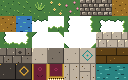
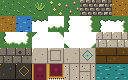
Art: quieter Guildhall and Vault floors (REF-122, REF-154 second drawings)
The owner agreed both floors were too loud. REF-122: the solid
stone-grey square becomes a pale slab with an inlaid grey line frame,
so the chequer stays but no longer drowns the props. REF-154: the ring
is a single thin brass line and is laid on one slab in twelve, not one
in six. REF-76 atlas copy, game atlas, docs and the ring-rate test
updated to match.

Claude-Session: https://claude.ai/code/session_0148hHFc6RMn2Uz6tAh8NkZT

Changed region(s): [[0.375, 0.6, 0.5, 0.8], [0.1562, 0.825, 0.2188, 0.95]]

diff --git a/design/art/refs/ref-122-hallfloor.jsx b/design/art/refs/ref-122-hallfloor.jsx
@@ -2,14 +2,17 @@
 // REF-122 - Guildhall floor, 16x16 tiles, 2-column sheet.
 // APPROVED by Matt 2026-11-18. Wired as game/assets/sprites/tiles_village_v3.png (via the REF-76 combined atlas, indices 26-27).
 //
-// Ground for the Guildhall Quarter (Act 3): a chequered civic floor, one
-// aged-paper square and one stone-grey square, each a whole tile with a
-// one-pixel joint on its right and bottom edge. Lay them as a chequer
-// (light where tile x + tile y is even), never at random. The Guildhall
-// cast wears oxblood and reads on both squares.
+// Ground for the Guildhall Quarter (Act 3): a chequered civic floor of
+// aged-paper slabs, each a whole tile with a one-pixel joint on its
+// right and bottom edge. One square is plain; the other carries an
+// inlaid stone-grey line frame. Lay them as a chequer (plain where
+// tile x + tile y is even), never at random. Second drawing (owner
+// agreed 2026-11-19): the first had a solid stone-grey square, and the
+// full-contrast check was the loudest ground in the game and drowned
+// the props. The Guildhall cast wears oxblood and reads on both.
 //
 // Legend: V aged paper  C parchment cream (lit corner)
-//         S stone grey  B basalt (joint, specks)
+//         S stone grey (joint, inlay, speck)
 
 const REF122_COLS = 2;
 
@@ -33,22 +36,22 @@ const REF122_TILES = {
     'SSSSSSSSSSSSSSSS',
   ],
   hall_dark: [
-    'VSSSSSSSSSSSSSSB',
-    'VSSSSSSSSSSSSSSB',
-    'SSSSSSSSSSSSSSSB',
-    'SSSSSSSSSSSSSSSB',
-    'SSSSSSSSSSSBSSSB',
-    'SSSSSSSSSSSSSSSB',
-    'SSSSSSSSSSSSSSSB',
-    'SSSSSSSSSSSSSSSB',
-    'SSSSSSSSSSSSSSSB',
-    'SSSSSSSSSSSSSSSB',
-    'SSSSBSSSSSSSSSSB',
-    'SSSSSSSSSSSSSSSB',
-    'SSSSSSSSSSSSSSSB',
-    'SSSSSSSSSSSSSSSB',
-    'SSSSSSSSSSSSSSSB',
-    'BBBBBBBBBBBBBBBB',
+    'CCVVVVVVVVVVVVVS',
+    'CVVVVVVVVVVVVVVS',
+    'VVSSSSSSSSSSSVVS',
+    'VVSVVVVVVVVVSVVS',
+    'VVSVVVVVVVVVSVVS',
+    'VVSVVVVVVVVVSVVS',
+    'VVSVVVVVVVVVSVVS',
+    'VVSVVVVVVVVVSVVS',
+    'VVSVVVVVVVVVSVVS',
+    'VVSVVVVVVVVVSVVS',
+    'VVSVVVVVVVVVSVVS',
+    'VVSVVVVVVVVVSVVS',
+    'VVSSSSSSSSSSSVVS',
+    'VVVVVVVVVVVVVVVS',
+    'VVVVVVVVVVVVVVVS',
+    'SSSSSSSSSSSSSSSS',
   ],
 };
 

diff --git a/design/art/refs/ref-76-village-atlas.jsx b/design/art/refs/ref-76-village-atlas.jsx
@@ -520,22 +520,22 @@ const REF76_TILES = {
     'SSSSSSSSSSSSSSSS',
   ],
   hall_dark: [
-    'VSSSSSSSSSSSSSSB',
-    'VSSSSSSSSSSSSSSB',
-    'SSSSSSSSSSSSSSSB',
-    'SSSSSSSSSSSSSSSB',
-    'SSSSSSSSSSSBSSSB',
-    'SSSSSSSSSSSSSSSB',
-    'SSSSSSSSSSSSSSSB',
-    'SSSSSSSSSSSSSSSB',
-    'SSSSSSSSSSSSSSSB',
-    'SSSSSSSSSSSSSSSB',
-    'SSSSBSSSSSSSSSSB',
-    'SSSSSSSSSSSSSSSB',
-    'SSSSSSSSSSSSSSSB',
-    'SSSSSSSSSSSSSSSB',
-    'SSSSSSSSSSSSSSSB',
-    'BBBBBBBBBBBBBBBB',
+    'CCVVVVVVVVVVVVVS',
+    'CVVVVVVVVVVVVVVS',
+    'VVSSSSSSSSSSSVVS',
+    'VVSVVVVVVVVVSVVS',
+    'VVSVVVVVVVVVSVVS',
+    'VVSVVVVVVVVVSVVS',
+    'VVSVVVVVVVVVSVVS',
+    'VVSVVVVVVVVVSVVS',
+    'VVSVVVVVVVVVSVVS',
+    'VVSVVVVVVVVVSVVS',
+    'VVSVVVVVVVVVSVVS',
+    'VVSVVVVVVVVVSVVS',
+    'VVSSSSSSSSSSSVVS',
+    'VVVVVVVVVVVVVVVS',
+    'VVVVVVVVVVVVVVVS',
+    'SSSSSSSSSSSSSSSS',
   ],
   court_plain: [
     'CVVVVVVVVVVVVVVS',
@@ -631,14 +631,14 @@ const REF76_TILES = {
     'GBBBBBBBBBBBBBBX',
     'BBBBBBBBBBBBBBBX',
     'BBBBBBBNNBBBBBBX',
-    'BBBBBBNGGNBBBBBX',
-    'BBBBBNGBBGNBBBBX',
-    'BBBBNGBBBBGNBBBX',
-    'BBBNGBBBBBBGNBBX',
-    'BBBNGBBBBBBGNBBX',
-    'BBBBNGBBBBGNBBBX',
-    'BBBBBNGBBGNBBBBX',
-    'BBBBBBNGGNBBBBBX',
+    'BBBBBBNBBNBBBBBX',
+    'BBBBBNBBBBNBBBBX',
+    'BBBBNBBBBBBNBBBX',
+    'BBBNBBBBBBBBNBBX',
+    'BBBNBBBBBBBBNBBX',
+    'BBBBNBBBBBBNBBBX',
+    'BBBBBNBBBBNBBBBX',
+    'BBBBBBNBBNBBBBBX',
     'BBBBBBBNNBBBBBBX',
     'BBBBBBBBBBBBBBBX',
     'BBBBBBBBBBBBBBBX',

diff --git a/design/art/refs/ref-154-vaultfloor.jsx b/design/art/refs/ref-154-vaultfloor.jsx
@@ -4,9 +4,11 @@
 //
 // Ground for the Vault (Act 8): dark basalt slabs, one per tile, with a
 // coalblack joint and one old-gold stud at the corner; the second tile
-// carries a gold ring inlay (use it for about one tile in six). The
-// darkest ground in the game on purpose: the Vault cast wears
-// stone-grey plate and would vanish on a grey floor.
+// carries a thin antique-brass ring inlay (use it for about one tile
+// in twelve). Second drawing (owner agreed 2026-11-19): the first ring
+// was a double gold-and-brass line on one tile in six and read as
+// busy. The darkest ground in the game on purpose: the Vault cast
+// wears stone-grey plate and would vanish on a grey floor.
 //
 // Legend: B basalt  X coalblack  S stone grey  G old gold
 //         N antique brass
@@ -36,14 +38,14 @@ const REF154_TILES = {
     'GBBBBBBBBBBBBBBX',
     'BBBBBBBBBBBBBBBX',
     'BBBBBBBNNBBBBBBX',
-    'BBBBBBNGGNBBBBBX',
-    'BBBBBNGBBGNBBBBX',
-    'BBBBNGBBBBGNBBBX',
-    'BBBNGBBBBBBGNBBX',
-    'BBBNGBBBBBBGNBBX',
-    'BBBBNGBBBBGNBBBX',
-    'BBBBBNGBBGNBBBBX',
-    'BBBBBBNGGNBBBBBX',
+    'BBBBBBNBBNBBBBBX',
+    'BBBBBNBBBBNBBBBX',
+    'BBBBNBBBBBBNBBBX',
+    'BBBNBBBBBBBBNBBX',
+    'BBBNBBBBBBBBNBBX',
+    'BBBBNBBBBBBNBBBX',
+    'BBBBBNBBBBNBBBBX',
+    'BBBBBBNBBNBBBBBX',
     'BBBBBBBNNBBBBBBX',
     'BBBBBBBBBBBBBBBX',
     'BBBBBBBBBBBBBBBX',

diff --git a/game/src/plugins/world.rs b/game/src/plugins/world.rs
@@ -110,11 +110,11 @@ const RUNE_RING_RADIUS_PX: f32 = 80.0;
 const T_PLANK_A: u32 = 30;
 const T_PLANK_B: u32 = 31;
 /// REF-154 vault floor: a plain basalt slab and a slab with a gold ring
-/// inlaid, the ring on about one tile in six ([`VAULT_RING_ONE_IN`]).
+/// inlaid, the ring on about one tile in twelve ([`VAULT_RING_ONE_IN`]).
 const T_VAULT_PLAIN: u32 = 32;
 const T_VAULT_RING: u32 = 33;
 /// One vault slab in this many carries the gold ring (REF-154).
-const VAULT_RING_ONE_IN: u32 = 6;
+const VAULT_RING_ONE_IN: u32 = 12;
 /// REF-162 carpet runner, laid in the overlay layer over a plaza's ground
 /// ([`Runner`]): `runner_mid` tiles vertically, `runner_end` is its fringed
 /// south end.
@@ -2102,10 +2102,10 @@ mod tests {
         assert!((0.12..=0.22).contains(&share), "soot_a {a}, soot_b {b}");
     }
 
-    /// REF-154: the gold ring slab on about one vault tile in six, the
+    /// REF-154: the ring slab on about one vault tile in twelve, the
     /// plain basalt slab everywhere else.
     #[test]
-    fn vault_ring_is_about_one_tile_in_six() {
+    fn vault_ring_is_about_one_tile_in_twelve() {
         assert_eq!(
             Ground::VaultFloor.paving().map(|p| p.lay),
             Some(Lay::OneIn(VAULT_RING_ONE_IN))
@@ -2116,7 +2116,7 @@ mod tests {
         let plain = tiles.iter().filter(|(_, _, t)| *t == T_VAULT_PLAIN).count();
         assert_eq!(ring + plain, tiles.len());
         let share = ring as f64 / tiles.len() as f64;
-        assert!((0.12..=0.22).contains(&share), "plain {plain}, ring {ring}");
+        assert!((0.05..=0.12).contains(&share), "plain {plain}, ring {ring}");
     }
 
     /// REF-162: the Library and the Throne each lay a runner two tiles

diff --git a/design/04b-art-deliverables.md b/design/04b-art-deliverables.md
@@ -333,7 +333,7 @@ Refs landed against the bible. Source `.jsx` lives at `design/art/refs/ref-NN-<s
 | 151 | Fish crates (Wharf prop) | 32×32 | ref-151-fishcrates.jsx | (header) | `sprites/props/fish_crates.png` (prop, y-sorted, solid stack) |
 | 152 | Anchor (Wharf prop) | 32×32 | ref-152-anchor.jsx | (header) | `sprites/props/anchor.png` (prop, y-sorted, solid over the shank and arms) |
 | 153 | Signal mast (Wharf prop) | 32×32 | ref-153-signalmast.jsx | (header) | `sprites/props/signal_mast.png` (prop, y-sorted, solid at the foot) |
-| 154 | Vault floor (Act 8 district ground: vault_plain, vault_ring) | 16×16 ×2 (2-col sheet, 32×16) | ref-154-vaultfloor.jsx | (header) | via REF-76: `sprites/tiles_village_v3.png` indices 32-33 (the Vault interior; the gold ring on about one slab in six) |
+| 154 | Vault floor (Act 8 district ground: vault_plain, vault_ring) | 16×16 ×2 (2-col sheet, 32×16) | ref-154-vaultfloor.jsx | (header) | via REF-76: `sprites/tiles_village_v3.png` indices 32-33 (the Vault interior; a thin brass ring on about one slab in twelve; second drawing 2026-11-19) |
 | 155 | The vault door (Act 8 landmark) | 64×64 | ref-155-vaultdoor.jsx | (header) | `sprites/props/vault_door.png` (landmark, y-sorted, solid over the whole wall) |
 | 156 | Coin pile (Vault prop) | 32×32 | ref-156-coinpile.jsx | (header) | `sprites/props/coin_pile.png` (prop, y-sorted, solid heap) |
 | 157 | Chained casket (Vault prop) | 32×32 | ref-157-chainedcasket.jsx | (header) | `sprites/props/chained_casket.png` (prop, y-sorted, solid pedestal) |
@@ -362,7 +362,7 @@ Refs landed against the bible. Source `.jsx` lives at `design/art/refs/ref-NN-<s
 
 Props (REF-67, REF-68) are sprites, not tiles: y-sorted, anchored bottom-centre. Terrain (REF-66) uses an opaque base layer plus a transparent grass-edge overlay layer.
 
-A tilemap binds one atlas texture, so every plaza ground reaches the world through REF-76, a verbatim copy of the REF-66 tiles (0-21) followed by the REF-75 flagstone (22-23), the REF-97 Forge slab (24-25), the REF-122 Guildhall floor (26-27), the REF-130 tower court (28-29), the REF-138 tavern planks (30-31), the REF-154 vault floor (32-33), the REF-162 carpet runner (34-35) and the REF-146 Wharf dock and water (36-39; the atlas is now five full rows). How a ground's two tiles are laid is per-ground data (`world::Ground::paving`, `world::Lay`): flagstone and planks mixed, the Forge's scorch and the vault's gold ring each on one slab in six, the Guildhall floor a chequer, the rune slab a ring round the Mage's Tower. The runner is not a ground: a district's `runner` (`world::Runner`) lays it in the overlay layer over the paving, two tiles wide (the plaza's centre line is a tile seam), so the fringe of `runner_end` shows the flagstone under it. Harbour water is a ground of its own (`world::Ground::Water`), laid only inside a plaza's cobble ring where a district names a `harbour` (`world::Harbour`: a basin rectangle less its jetties): its two REF-146 frames are laid in a chequer and swapped together every 0.6 s (`world::swell_water`), so neighbours are always out of phase, and its tiles merge into a few solid boxes (`world::water_solids`, three for the Wharf), so nobody walks, stands or restores a save on it. render-refs' `ref76_atlas_is_verbatim_copy_of_its_sources` test fails if the copy drifts from any source; edit the source ref, never REF-76's rows. Plaza interiors are flagstone inside a one-tile REF-66 cobble ring; roads stay dirt.
+A tilemap binds one atlas texture, so every plaza ground reaches the world through REF-76, a verbatim copy of the REF-66 tiles (0-21) followed by the REF-75 flagstone (22-23), the REF-97 Forge slab (24-25), the REF-122 Guildhall floor (26-27), the REF-130 tower court (28-29), the REF-138 tavern planks (30-31), the REF-154 vault floor (32-33), the REF-162 carpet runner (34-35) and the REF-146 Wharf dock and water (36-39; the atlas is now five full rows). How a ground's two tiles are laid is per-ground data (`world::Ground::paving`, `world::Lay`): flagstone and planks mixed, the Forge's scorch on one slab in six, the vault's brass ring on one slab in twelve, the Guildhall floor a chequer (plain slab and inlaid-frame slab), the rune slab a ring round the Mage's Tower. The runner is not a ground: a district's `runner` (`world::Runner`) lays it in the overlay layer over the paving, two tiles wide (the plaza's centre line is a tile seam), so the fringe of `runner_end` shows the flagstone under it. Harbour water is a ground of its own (`world::Ground::Water`), laid only inside a plaza's cobble ring where a district names a `harbour` (`world::Harbour`: a basin rectangle less its jetties): its two REF-146 frames are laid in a chequer and swapped together every 0.6 s (`world::swell_water`), so neighbours are always out of phase, and its tiles merge into a few solid boxes (`world::water_solids`, three for the Wharf), so nobody walks, stands or restores a save on it. render-refs' `ref76_atlas_is_verbatim_copy_of_its_sources` test fails if the copy drifts from any source; edit the source ref, never REF-76's rows. Plaza interiors are flagstone inside a one-tile REF-66 cobble ring; roads stay dirt.
 
 **District sets (R1, `design/09-roadmap.md` "Art plan").** A district is dressed by data, not code: its approved ground's tiles are APPENDED to REF-76 (never inserted; existing indices are pinned by `world.rs` tests) and named by the district's `interior` in `world::DISTRICTS` (none = flagstone); its 64×64 landmark goes in `prop::LANDMARKS` (placed on the plaza's back-centre plot); its 32×32 props go in `prop::DISTRICT_PROPS` as (district, kind, offset from the plaza centre); its cast stands at their work through the district's `cast` offsets (one per roster slot; empty = the grid). Each new prop needs a `PropKind` with size, ground line, solid parts and visual box taken from its ref header (the `prop.rs` tests re-derive them from the grid). The tests then check the props stand on the plaza paving, keep street mouths open, leave no walled-off pocket, and that every talk spot is reachable. Capture: `scene-district-<name>.png` (whole plaza, zoomed out) and `scene-district-<name>-yard.png`. The Forge (Act 6) is the first: REF-97 slab, REF-98 Great Furnace, REF-99..102 anvil, quench trough, coal heap, tool rack (approved 2026-11-18). The free demo's three plazas follow on flagstone (R1 wave A2, approved 2026-11-18): Hearthstone Square (REF-103 Bell Tower, REF-104 well, REF-105 woodpile, REF-106 signpost, REF-115 chicken coop), Market Row (REF-107 market stall, REF-108 crates, REF-109 barrels, REF-110 handcart), The Commons (REF-111 Checker's Gate, REF-112 lantern post, REF-113 bench, REF-114 fence). A kind may be placed many times and in other districts; two plaza props may share sprite margins but never an opaque pixel (the tests compare the ref grids), so a fence run can meet a gate pillar. Density pass (2026-11-18): the four dressed plazas carry 34 to 45 props each (landmark included), composed as small scenes with two-tile lanes from every street mouth to the centre and the landmark, using also REF-116..121 (grindstone, ingots, bellows, weapon rack, workbench, bucket and shovel), REF-128 strongbox and REF-129 planter; the casts gather two or three to a prop, their centres at least two talk radii (56 px) apart. Acts 3-5 (approved 2026-11-18) follow the same standard on their own grounds: the Guildhall Quarter (REF-122..127, formal and symmetric), the Mage's Tower (REF-130..137, a rune-stone ring round the cauldron) and Tavern Row (REF-138..145, tables, kegs and the firepit), reusing the planter, strongbox, bench, lantern post, barrels, crates, woodpile and signposts. Acts 8-10 (approved 2026-11-18) the same way: the Vault (REF-154 floor, REF-155 door, REF-156..161; chain cordons, a treasury, the wardens' key rack, the casket and the scales), the Forbidden Library (REF-162 runner to the Sealed Stacks, REF-163..167; three rows of tall bookshelves either side of the runner) and the Throne (REF-162 runner to the dais, REF-168..172; an aisle of columns and braziers, guard statues at the mouth, the Crown beside the top of the aisle), reusing the strongbox, lantern post, scroll shelf, lectern and bench. The Library's and the Throne's bosses keep their grid spot before the landmark (their `cast` lists the six villagers only). Ambient townsfolk (REF-173..179, approved 2026-11-19) are not cast: `townsfolk::TOWNSFOLK` places 2-5 per dressed plaza at a prop, as non-solid, non-interactable sprites (no `Npc` component, nothing in the roster or save); `tests/npc_placement.rs` keeps them on their paving, off every prop and talk spot and 56 px from every roster NPC. Capture: `scene-townsfolk-<district>.png`. The Wharf (Act 7, approved 2026-11-18) is the last and every district is now dressed: REF-146 dock planks with the harbour basin along the east side (the side with no street) and a jetty three tiles wide out into it on the street's line, the REF-147 harbour crane at the back-centre with cargo stacked to its west, REF-148..153 bollards along the quay edge and at the jetty's head, net racks, fish crates, anchors, the signal mast on the north-east quay and three rowboats moored on the water, reusing crates, barrels, handcarts, lantern posts, benches and a signpost (38 props, landmark included). The cast gathers in pairs at the crane, the signal mast and the anchor, a tile clear of the water; five townsfolk stand at the mouth's lantern, the fish crates, the menders' bench, a net rack and a bollard. Capture: `scene-district-the-wharf[-yard,-jetty,-quay].png`, `scene-landmark-harbour-crane.png`, `scene-townsfolk-the-wharf.png`.
 

diff --git a/HANDOFF.md b/HANDOFF.md
@@ -299,7 +299,7 @@ runs `scripts/ci.ps1` on the merged result as the sign-off gate.
   `scene-district-{guildhall-quarter,the-mages-tower,tavern-row}[-yard]`,
   `scene-landmark-{guildhall,mages-tower,tavern}`.
 - **Wired 2026-11-19 (Acts 8-10):** REF-154..161 in the Vault (basalt
-  floor with a gold ring on one slab in six, the vault door, a treasury
+  floor with a thin brass ring on one slab in twelve, the vault door, a treasury
   behind a chain cordon, the key rack, the chained casket, the scales
   behind a chain, a second cordon along the south wall), REF-162..167 in
   the Forbidden Library (the runner two tiles wide from the south wall to
